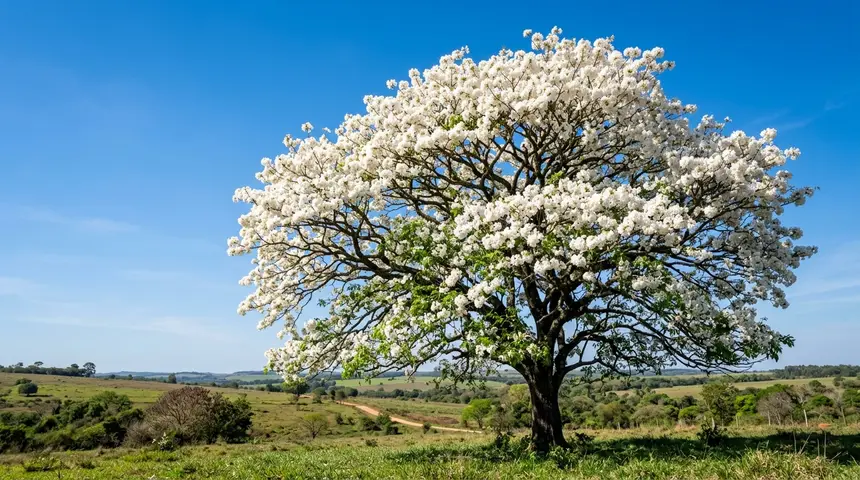
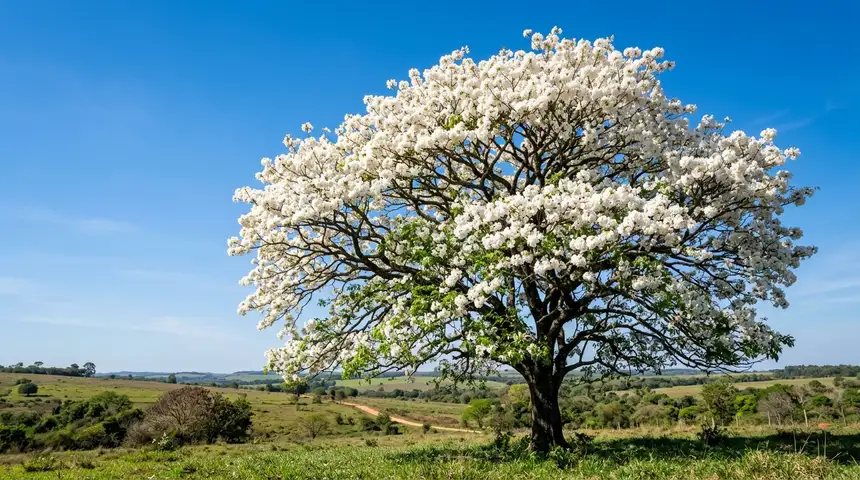
perf(mobile): recomprimir hero cards webp a calidad 60 (-21 KiB del LCP)

diff --git a/scripts/optimize_images.js b/scripts/optimize_images.js
@@ -21,7 +21,7 @@ async function main() {
     await sharp(src)
       .rotate()
       .resize({ width: 860 })
-      .webp({ quality: 72 })
+      .webp({ quality: 60 })
       .toFile(path.join(heroesDir, `${h}-card.webp`))
     console.log(`\u2705 ${h}-card.webp`)
   }
